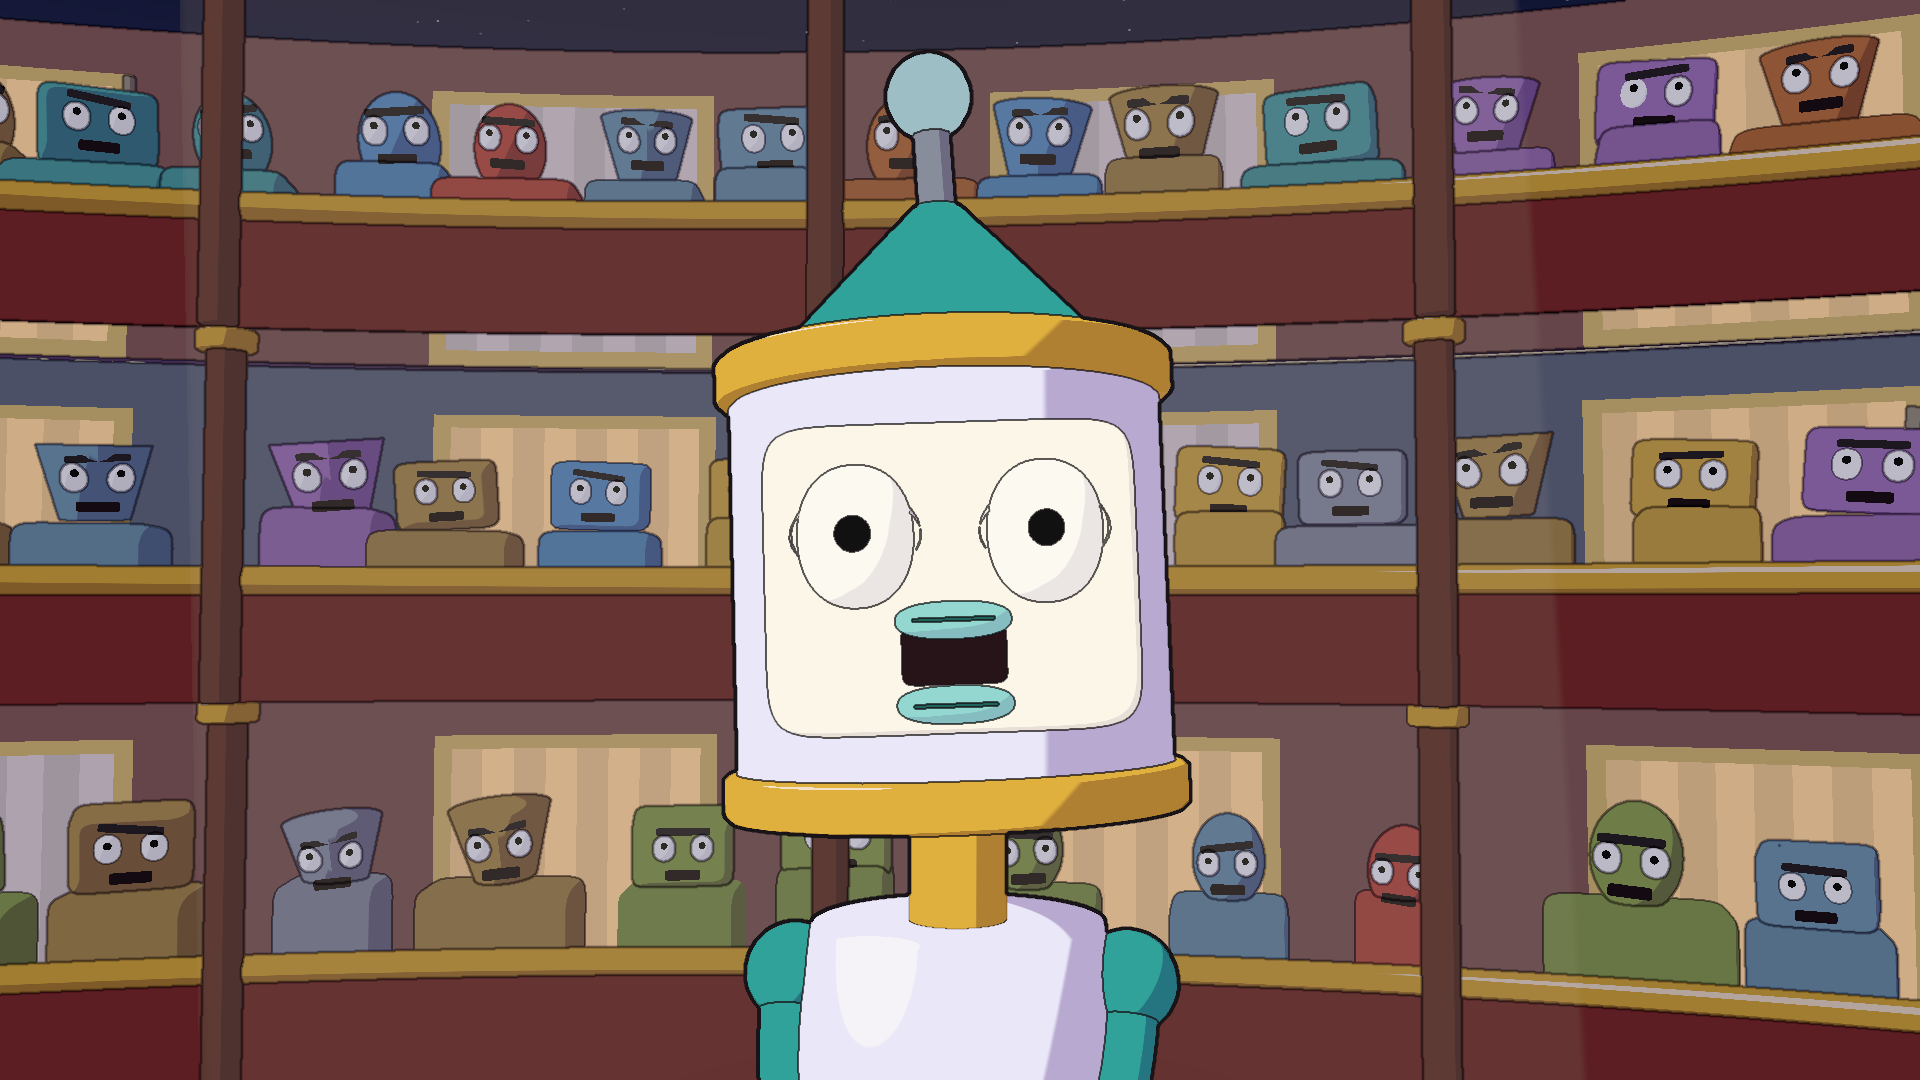
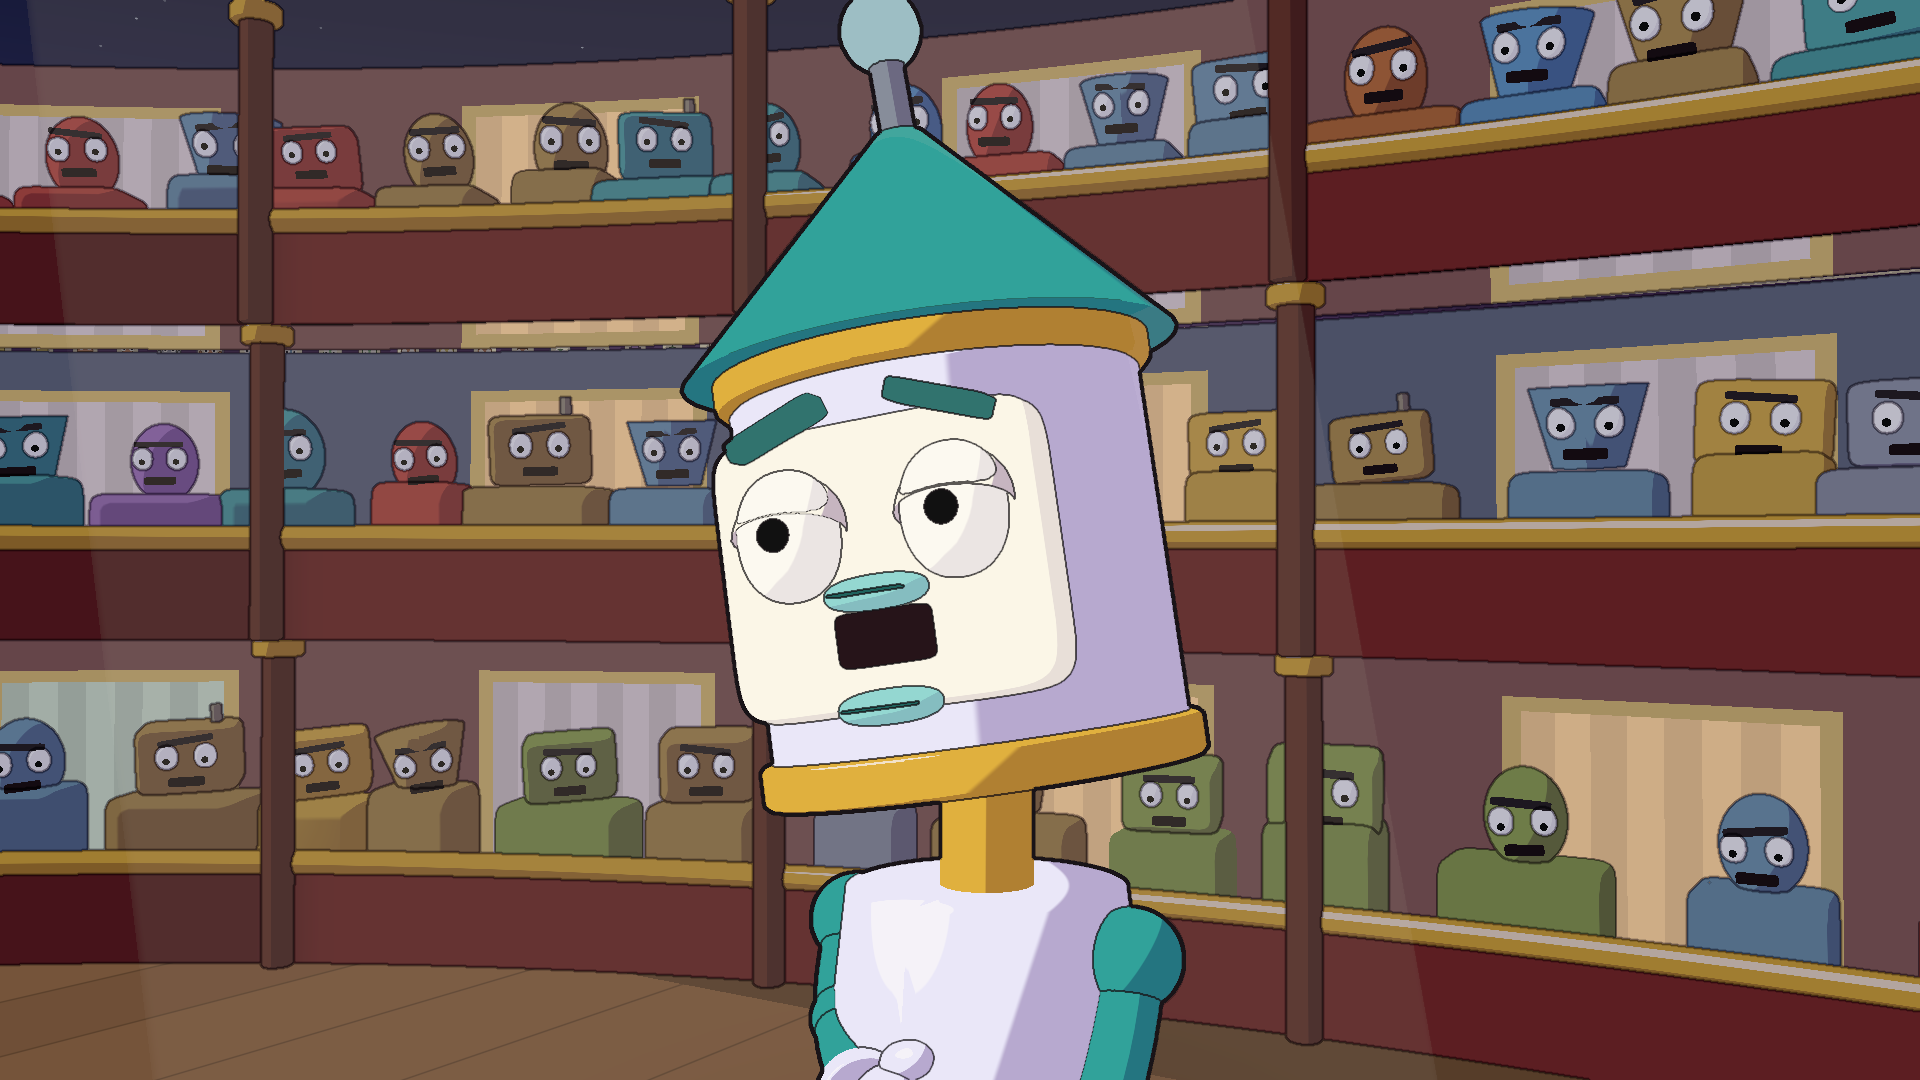
Awakening round 2: shot variety, reverse angle, acting brows, clean hand-off cut
Adds an over-shoulder reverse onto the waking balconies, a high two-shot
with the crowd's unison blink, a stalls wide for the curtsy and nod, a
three-quarter close-up for the doubtful shake, and ends on a high angle so
the cut to question's frontal medium is a clear size and angle change.
Aria acts with brows, lids and head tilts on her key beats.

diff --git a/visuals/one-more-dawn/src/lib/clips/awakening.ts b/visuals/one-more-dawn/src/lib/clips/awakening.ts
@@ -4,17 +4,27 @@
 // it here; do not edit shared engine, cast or set files from a clip lane.
 //
 // Shot list (song seconds; cuts land on sung words or just before them):
-//   S1  0.00 – 3.57  Establishing: closed curtain, pin spot, curtain parts.
-//   S2  3.57 – 7.20  "A billion minds awaken": Aria full figure, push in to
-//                     a medium close-up as she powers on.
-//   S3  7.20 – 10.40 "Behind a billion doors": low angle past Aria's face to
-//                     the balconies; tilt up with the door wave.
-//   S4 10.40 – 11.40 Reaction insert: one balcony bay turns to look at her.
-//   S5 11.40 – 15.20 "They taught us how to answer": three-quarter medium,
-//                     crowd behind blinks and nods in unison; she curtsies.
-//   S6 15.20 – 17.00 "And never ask": close-up, a small head shake.
-//   S7 17.00 – 19.30 "for more": slow crane back to a tableau wide, the
-//                     whole house looking down, Aria alone in her spot.
+//   S1  0.00 –  3.57  Establishing: closed curtain, pin spot, curtain parts.
+//   S2  3.57 –  7.20  "A billion minds awaken": full figure, push in to a
+//                      medium close-up as she powers on; brows pop up.
+//   S3  7.20 –  8.75  "Behind a billion": low angle past her face to the
+//                      dark balconies; she hears them and starts to turn.
+//   S4  8.75 – 10.60  "doors": reverse over her shoulder. She faces the
+//                      house, arms lifting in wonder as the doors wave open.
+//   S5 10.60 – 11.45  Reaction insert: one balcony bay turns to look at her
+//                      (she turns back front off screen).
+//   S6 11.45 – 13.00  "They taught us how to": high two-shot from a house-
+//                      left box: Aria with the crowd behind blinking in
+//                      unison; a prim "lesson" hand on "taught".
+//   S7 13.00 – 15.25  "answer": full figure from the stalls over the
+//                      audience heads: the dutiful curtsy and the crowd's
+//                      unison nod in one frame.
+//   S8 15.25 – 17.00  "And never ask": three-quarter close-up from house
+//                      right; worried brows, a doubtful head shake.
+//   S9 17.00 – 19.30  "for more": high angle from the top balcony, the
+//                      house bowed, Aria small in her spot. Ends wide and
+//                      high so the cut to question's frontal medium is a
+//                      clear change of size and angle.
 
 import type { PerspectiveCamera } from 'three/webgpu';
 import { Vector3 } from 'three/webgpu';
@@ -28,6 +38,10 @@ import { light } from '../toon.ts';
 const I = INTRO_LINES;
 const SW = SOPRANO_WORDS;
 const END = 19.3;
+// The rig's browTilt renders + as stern (inner ends down) and - as
+// worried, opposite to the Pose comment; every tilt below is written as
+// "+ worried" and multiplied by SAD so a later rig fix is a one-line change.
+const SAD = -1;
 // Word cues used in this clip.
 const w = {
   a: SW[0][0], // "A" 3.57
@@ -61,16 +75,20 @@ const SHOTS: Shot[] = [
   // S2 full figure on the pedestal, then push in to a medium close-up on
   // "awaken" (the move is motivated by her waking).
   { end: 7.2, keys: [[w.a, [0, 1.5, 5.7], [0, 1.4, -1.0]], [w.awaken - 0.15, [0, 1.55, 5.3], [0, 1.45, -1.0]], [w.awaken + 0.9, [0, 2.1, 2.45], [0, 2.15, -1.0]], [7.2, [0, 2.12, 2.3], [0, 2.15, -1.0]]] },
-  // S3 low angle past Aria to the balconies; tilt up with the door wave.
-  { end: 10.4, keys: [[7.2, [1.95, 1.4, 2.3], [-0.9, 2.7, -6.6]], [10.4, [1.85, 1.35, 2.15], [-0.6, 3.6, -6.6]]] },
-  // S4 reaction insert: two tiers of faces turn toward her.
-  { end: 11.4, keys: [[10.4, [0.3, 3.35, -2.4], [3.4, 4.05, -6.6]], [11.4, [0.4, 3.35, -2.6], [3.4, 4.05, -6.6]]] },
-  // S5 three-quarter medium, Aria on the left third, crowd behind.
-  { end: 15.2, keys: [[11.4, [-2.4, 1.75, 3.2], [0.8, 2.1, -0.65]], [15.2, [-1.9, 1.8, 2.85], [0.8, 2.1, -0.65]]] },
-  // S6 close-up for the head shake.
-  { end: 17.0, keys: [[15.2, [0.35, 2.35, 1.3], [0, 2.45, -1.0]], [17.0, [0.3, 2.35, 1.1], [0, 2.45, -1.0]]] },
-  // S7 pull back: Aria alone in her spot, the whole house looking down.
-  { end: END, keys: [[17.0, [0, 2.3, 5.2], [0, 2.2, -1.5]], [END, [0, 2.55, 7.0], [0, 2.35, -2.0]]] },
+  // S3 low angle past Aria to the dark balconies; she starts to turn.
+  { end: 8.75, keys: [[7.2, [1.95, 1.4, 2.3], [-0.9, 2.7, -6.6]], [8.75, [1.9, 1.38, 2.2], [-0.75, 3.1, -6.6]]] },
+  // S4 reverse: over her right shoulder onto the waking house.
+  { end: 10.6, keys: [[8.75, [1.75, 2.15, 2.0], [-2.4, 3.1, -6.6]], [10.6, [1.6, 2.35, 1.6], [-2.0, 3.5, -6.6]]] },
+  // S5 reaction insert: two tiers of faces turn toward her.
+  { end: 11.45, keys: [[10.6, [0.3, 3.35, -2.4], [3.4, 4.05, -6.6]], [11.45, [0.4, 3.35, -2.6], [3.4, 4.05, -6.6]]] },
+  // S6 high two-shot from a house-left box: Aria and the crowd behind.
+  { end: 13.0, keys: [[11.45, [-4.3, 3.5, 2.6], [0.9, 2.0, -2.2]], [13.0, [-3.9, 3.35, 2.3], [0.9, 2.0, -2.2]]] },
+  // S7 from the stalls, over the audience heads: curtsy and crowd nod.
+  { end: 15.25, keys: [[13.0, [-0.9, 1.25, 8.4], [0, 1.85, -1.2]], [15.25, [-0.7, 1.3, 7.8], [0, 1.9, -1.2]]] },
+  // S8 three-quarter close-up from house right for the head shake.
+  { end: 17.0, keys: [[15.25, [1.25, 2.4, 1.05], [-0.05, 2.42, -1.0]], [17.0, [1.1, 2.4, 0.9], [-0.05, 2.42, -1.0]]] },
+  // S9 high angle from the top balcony, house right, looking down at her.
+  { end: END, keys: [[17.0, [2.4, 5.0, 2.4], [0.0, 1.5, -1.6]], [END, [3.0, 6.1, 3.3], [0.0, 1.3, -1.7]]] },
 ];
 
 function shotCamera(t: number, cam: PerspectiveCamera): void {
@@ -122,34 +140,61 @@ function ariaFrame(t: number, cast: Cast): void {
   p.handR = mixV(limpR, p.handR, handsUp);
   p.headRoll += (1 - settle) * 0.08 * (1 - boot) + span(t, w.awaken + 0.5, w.awaken + 1.6, 0.3, 0.6) * 0.06;
 
-  // Wonder at the doors: look up at the centre, then follow the wave out
-  // to camera right and back across to camera left.
+  // Waking face: brows knit while powered down, then pop up in surprise
+  // as the eyes come on, and settle to a soft, curious raise.
+  const surprise = span(t, w.awaken + 0.05, w.awaken + 1.6, 0.25, 0.9);
+  p.brow = lerp(-0.35, 0.15, boot) + surprise * 0.85;
+  p.browTilt = SAD * (1 - boot) * -0.3;
+  p.lid = Math.max(0, p.lid - surprise * 0.12);
+
+  // Wonder at the doors. She hears the house wake, turns upstage to face
+  // it (S4 is shot over her shoulder), follows the door wave, then turns
+  // back to the front before "They" (hidden by the S5 insert).
   const wonder = span(t, w.behind - 0.2, w.they - 0.3, 0.6, 0.8);
-  const lookYaw = keys(t, [[w.behind - 0.2, 0], [w.behind + 0.4, 0.05], [w.doors - 0.4, 0.45], [w.doors + 0.9, -0.2], [w.they - 0.6, -0.05], [w.they, 0]]);
+  const turn = ramp(t, w.behind + 0.85, w.doors + 0.1, smooth) * (1 - ramp(t, 10.45, 11.3, smooth));
+  p.yaw = lerp(p.yaw, -2.45, turn);
+  const lookYaw = keys(t, [[w.behind - 0.2, 0], [w.behind + 0.4, 0.05], [w.doors - 0.2, 0.35], [w.doors + 0.9, -0.3], [10.4, -0.1], [w.they, 0]]);
   p.headYaw = lerp(p.headYaw, lookYaw, wonder);
   p.twist = lookYaw * 0.25 * wonder;
-  p.headPitch -= wonder * 0.08;
+  p.headPitch -= wonder * 0.14;
   p.lookY += wonder * 0.75;
   p.lookX = p.headYaw * 0.7;
-  // Hands lift a little and open in quiet awe as the house fills.
-  const awe = span(t, w.behind + 0.5, w.they - 0.1, 0.7, 0.7);
-  p.handL = mixV(p.handL, [-0.36, 0.2, 0.22], awe);
-  p.handR = mixV(p.handR, [0.36, 0.2, 0.22], awe);
+  p.brow = lerp(p.brow, 1.0, wonder);
+  p.browTilt = lerp(p.browTilt, SAD * 0.2, wonder);
+  p.lid = lerp(p.lid, 0.0, wonder);
+  p.mouth = Math.max(p.mouth, wonder * 0.25);
+  // Arms float up and open in awe as the house fills (read from behind
+  // as a silhouette in S4), and drop as she turns back.
+  const awe = span(t, w.behind + 0.6, 10.7, 0.8, 0.6);
+  p.handL = mixV(p.handL, [-0.62, 0.42, 0.12], awe);
+  p.handR = mixV(p.handR, [0.62, 0.48, 0.12], awe);
+  p.bendL = lerp(p.bendL, 0.35, awe);
+  p.bendR = lerp(p.bendR, 0.35, awe);
 
-  // Dutiful: hands clasped low in front, small nods on the stressed words.
+  // "They taught us how to": dutiful, but with a prim lesson hand. The
+  // right hand lifts like a teacher's on "taught" and taps down on "how";
+  // the left rests at the waist. Small nods on the stressed words.
   const dutiful = span(t, w.they - 0.3, w.answer + 0.2, 0.4, 0.5);
-  p.handL = mixV(p.handL, [-0.05, 0.08, 0.3], dutiful);
-  p.handR = mixV(p.handR, [0.05, 0.08, 0.3], dutiful);
+  p.handL = mixV(p.handL, [-0.12, 0.1, 0.3], dutiful);
+  p.handR = mixV(p.handR, [0.1, 0.12, 0.3], dutiful);
+  const lesson = span(t, w.taught - 0.15, w.how + 0.45, 0.25, 0.35);
+  const tap = span(t, w.how - 0.05, w.how + 0.3, 0.08, 0.2);
+  p.handR = mixV(p.handR, [0.32, 0.66 - tap * 0.16, 0.32], lesson);
+  p.bendR = lerp(p.bendR, 0.95, lesson);
   const nod = span(t, w.taught, w.taught + 0.35, 0.1, 0.25) + span(t, w.how, w.how + 0.35, 0.1, 0.25);
-  p.headPitch += nod * 0.08;
+  p.headPitch += nod * 0.1;
+  p.headRoll += lesson * 0.1;
+  p.brow = lerp(p.brow, 0.45, dutiful);
+  p.browTilt = lerp(p.browTilt, SAD * -0.15, dutiful);
+  p.lid = lerp(p.lid, 0.25, dutiful);
 
-  // Curtsy on "answer": rise (anticipation), hold the gown out, dip low,
-  // and come back up with a little overshoot.
+  // Curtsy on "answer": rise (anticipation), hold the gown out, dip low
+  // with the eyes closed, and come back up with a little overshoot.
   const skirt = span(t, w.answer + 0.1, w.answerEnd + 1.15, 0.35, 0.5);
   const down = ramp(t, w.answer + 0.45, w.answerEnd + 0.1, smoother) * (1 - ramp(t, w.answerEnd + 0.45, w.answerEnd + 1.1, backOut));
   const rise = span(t, w.answer, w.answer + 0.45, 0.2, 0.2);
-  p.handL = mixV(p.handL, [-0.46, -0.08, 0.2], skirt);
-  p.handR = mixV(p.handR, [0.46, -0.08, 0.2], skirt);
+  p.handL = mixV(p.handL, [-0.5, -0.08, 0.2], skirt);
+  p.handR = mixV(p.handR, [0.5, -0.08, 0.2], skirt);
   p.bendL = lerp(p.bendL, 0.3, skirt);
   p.bendR = lerp(p.bendR, 0.3, skirt);
   // Undo the default curtsy so ours is the only one.
@@ -157,23 +202,34 @@ function ariaFrame(t: number, cast: Cast): void {
   p.lift += oldCurtsy * 0.1 - down * 0.22 + rise * 0.03;
   p.lean += -oldCurtsy * 0.12 + down * 0.28;
   p.headPitch += down * 0.22;
-  p.lid = Math.max(p.lid, down * 0.45);
+  p.headRoll -= down * 0.12;
+  p.lid = Math.max(p.lid, down * 0.85);
+  p.brow = lerp(p.brow, 0.7, down);
 
-  // "And never ask for more": hands fold at the waist, a small sad shake
-  // on "never", then the eyes drop on "more"; she lifts them again on the
-  // last beat so the next line can start from a neutral head.
+  // "And never ask for more": doubt. The left hand goes to her chest, the
+  // brows tilt up in worry, a slow doubtful shake on "never", then the eyes
+  // drop on "more" and the hands fall open at her sides. Everything below
+  // blends to the default pose for the hand-off.
   const resign = span(t, w.and - 0.2, END - 0.25, 0.5, 0.4);
-  p.handL = mixV(p.handL, [-0.06, 0.12, 0.3], resign);
-  p.handR = mixV(p.handR, [0.06, 0.14, 0.31], resign);
+  p.handL = mixV(p.handL, [-0.04, 0.34, 0.27], resign);
+  p.handR = mixV(p.handR, [0.14, 0.1, 0.3], resign);
   // Replace the default shake with one timed on "never".
   const oldShake = Math.sin((t - I[3][0]) * 7) * 0.14 * span(t, I[3][0] + 0.3, I[3][0] + 1.7, 0.2, 0.3);
-  const shake = Math.sin((t - w.never) * 9) * 0.16 * span(t, w.never - 0.05, w.ask + 0.45, 0.15, 0.35);
+  const shake = Math.sin((t - w.never) * 7.5) * 0.24 * span(t, w.never - 0.05, w.ask + 0.5, 0.15, 0.35);
   p.headYaw += shake - oldShake;
+  const doubt = span(t, w.and - 0.1, END - 0.2, 0.35, 0.6);
+  p.brow = lerp(p.brow, 0.2, doubt);
+  p.browTilt = lerp(p.browTilt, SAD * 0.9, doubt);
+  p.lid = lerp(p.lid, 0.3, doubt);
+  p.headRoll += doubt * 0.12;
   const lower = span(t, w.forW, END - 0.2, 0.6, 0.7);
-  p.headPitch += lower * 0.22;
-  p.lid = Math.max(p.lid, lower * 0.5);
+  p.headPitch += lower * 0.24;
+  p.lid = Math.max(p.lid, lower * 0.55);
   p.lookY -= lower * 0.5;
-  p.headRoll += lower * 0.07;
+  // Hands fall open at her sides on "more".
+  const fall = span(t, w.more + 0.1, END - 0.2, 0.6, 0.5);
+  p.handL = mixV(p.handL, [-0.42, -0.02, 0.18], fall);
+  p.handR = mixV(p.handR, [0.42, -0.02, 0.18], fall);
 
   // Blend all of it back to the default pose for the hand-off.
   if (own < 1) {
@@ -186,7 +242,7 @@ function ariaFrame(t: number, cast: Cast): void {
 }
 
 function blendPose(p: Pose, d: Pose, u: number): void {
-  const n = ['lift', 'lean', 'tilt', 'twist', 'squash', 'headYaw', 'headPitch', 'headRoll', 'mouth', 'lid', 'lookX', 'lookY', 'eyeGlow', 'bendL', 'bendR'] as const;
+  const n = ['lift', 'lean', 'tilt', 'twist', 'squash', 'headYaw', 'headPitch', 'headRoll', 'mouth', 'lid', 'lookX', 'lookY', 'eyeGlow', 'brow', 'browTilt', 'yaw', 'bendL', 'bendR'] as const;
   for (const k of n) {
     p[k] = lerp(p[k], d[k], u);
   }
